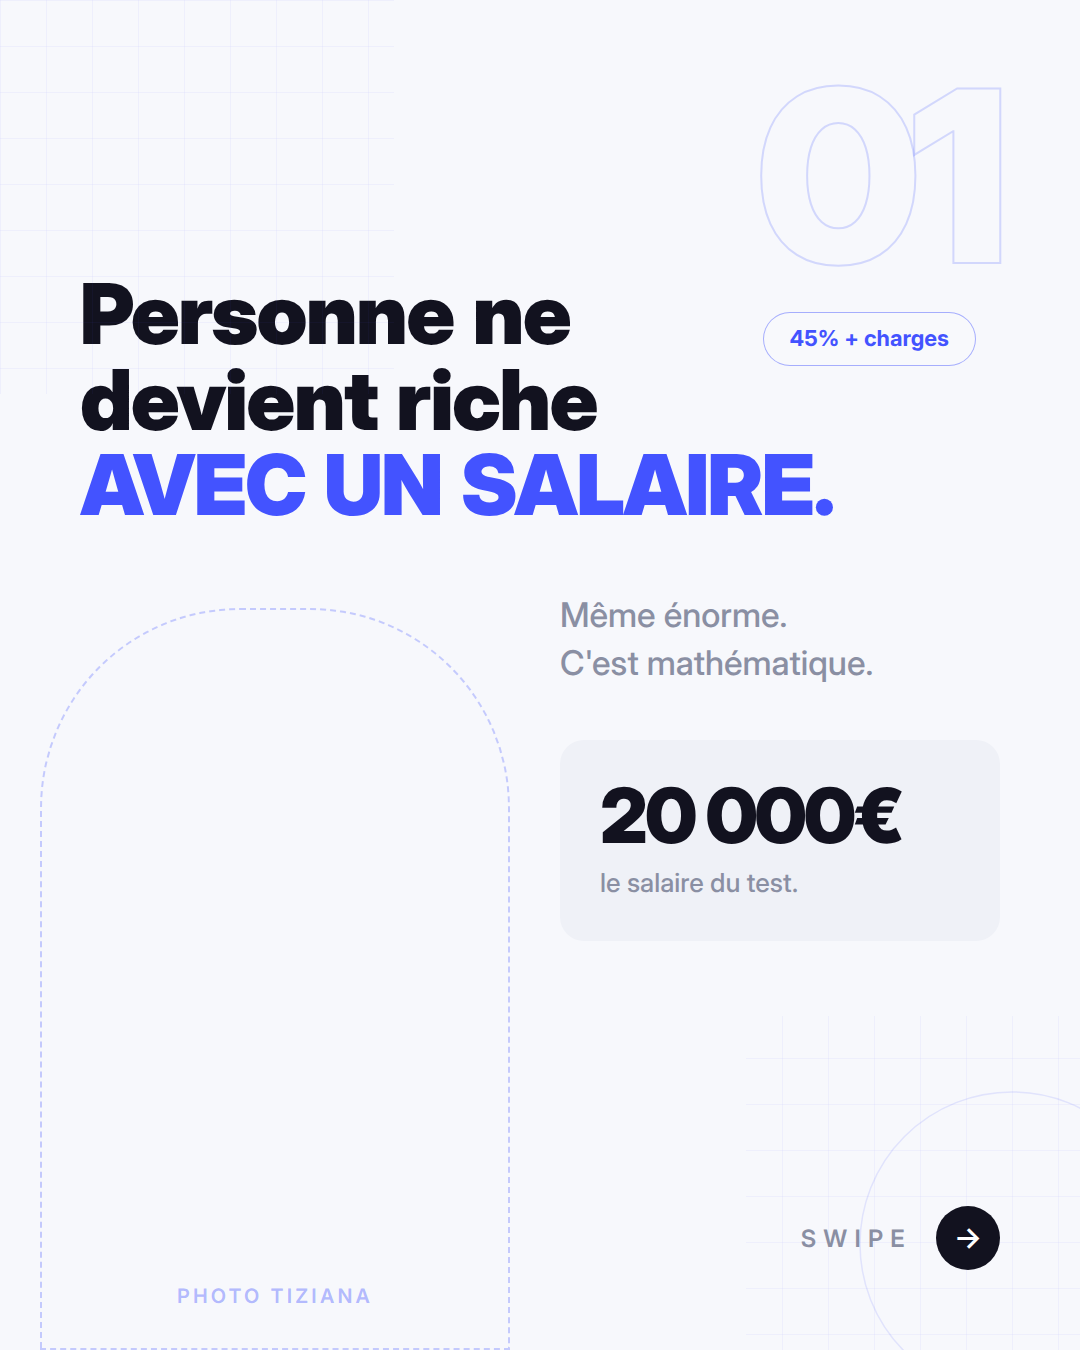
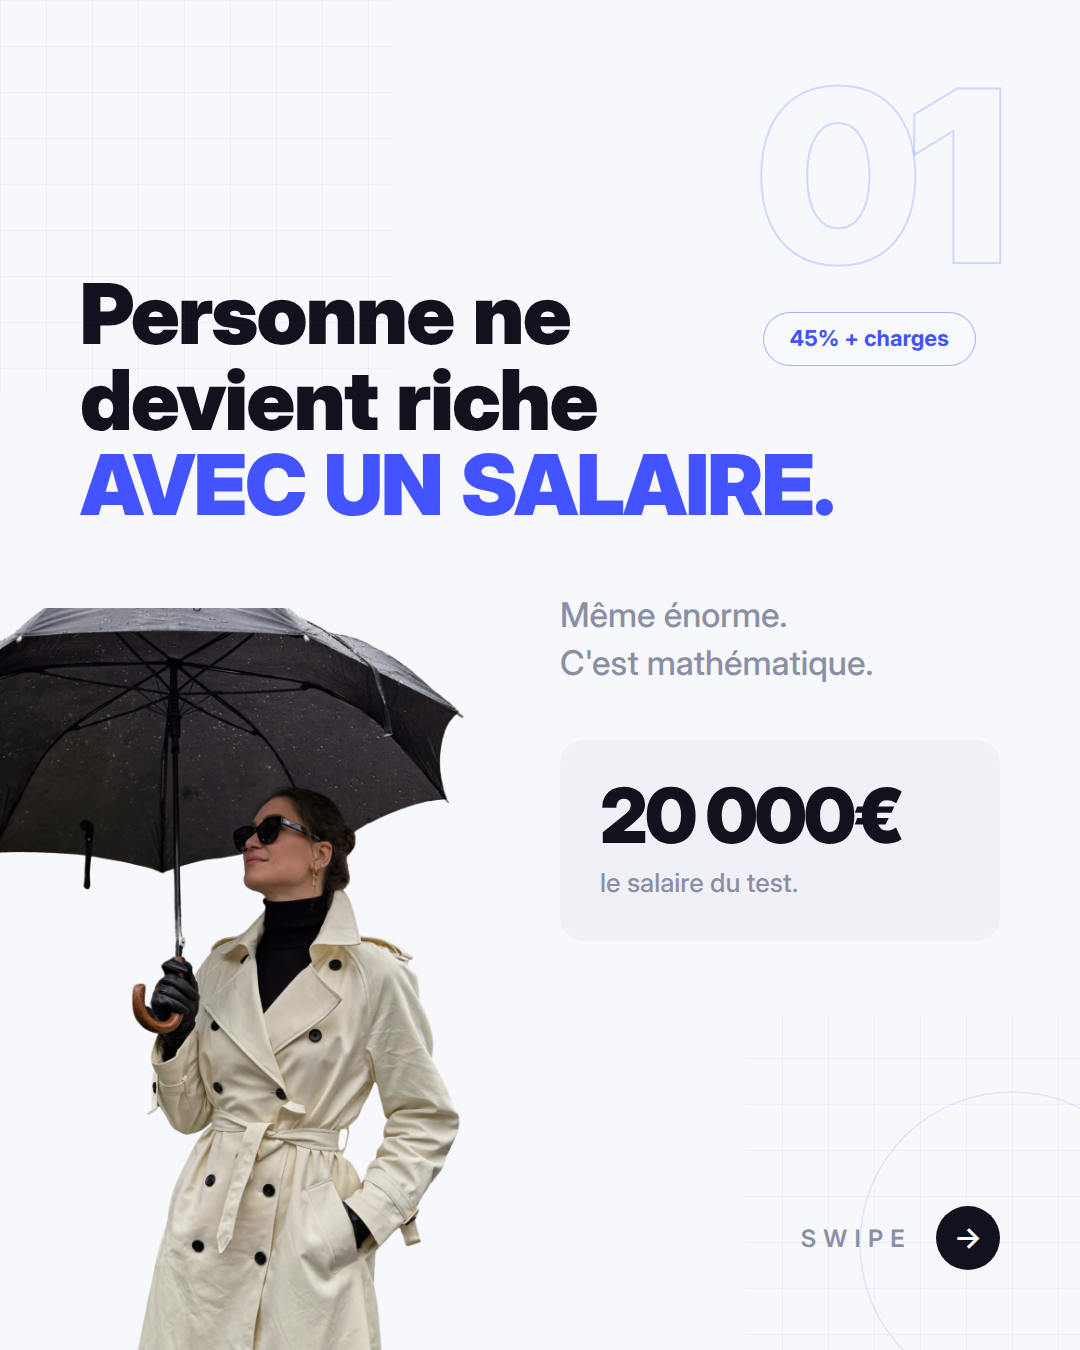
Les 9 slides rendues + photo detouree en slide 1
- assets/tiziana-cutout.png : photo detouree (alpha), recadree sur son
  contenu et redimensionnee a 1000px de large pour alleger le depot ;
  le placeholder en pointilles n'est utilise que si l'asset est absent
- slide 3 : card bleue reequilibree (chiffre et sous-texte cote a cote)
  au lieu d'un empilement qui laissait une large zone vide a droite
- les 9 PNG 1080x1350 generes dans output/

Claude-Session: https://claude.ai/code/session_01JgjaVc8GDMA4sZRNpbXpxq

Changed region(s): [[0.0, 0.4356, 0.4889, 1.0]]

diff --git a/carrousel/slides/slide-03.html b/carrousel/slides/slide-03.html
@@ -23,10 +23,10 @@
       <div class="head"><span class="badge">LES GRANDES FORTUNES</span></div>
       <h1 class="title">Leur salaire<br>officiel.</h1>
       <div class="zone">
-        <div class="stat stat--blue" style="padding:64px">
-          <div class="stat-fig" style="font-size:180px">1€</div>
-          <div class="stat-sub" style="font-size:34px;margin-top:24px">
-            le salaire symbolique de certains<br>patrons de la tech.
+        <div class="stat stat--blue" style="padding:64px;display:flex;align-items:center;gap:52px">
+          <div class="stat-fig" style="font-size:180px;flex:none">1€</div>
+          <div class="stat-sub" style="font-size:32px;margin-top:0">
+            le salaire symbolique de certains patrons de la tech.
           </div>
         </div>
       </div>

diff --git a/carrousel/src/slides.js b/carrousel/src/slides.js
@@ -84,10 +84,10 @@ module.exports = { DECOR, slides: [
       ${badge('LES GRANDES FORTUNES')}
       <h1 class="title">Leur salaire<br>officiel.</h1>
       <div class="zone">
-        <div class="stat stat--blue" style="padding:64px">
-          <div class="stat-fig" style="font-size:180px">1€</div>
-          <div class="stat-sub" style="font-size:34px;margin-top:24px">
-            le salaire symbolique de certains<br>patrons de la tech.
+        <div class="stat stat--blue" style="padding:64px;display:flex;align-items:center;gap:52px">
+          <div class="stat-fig" style="font-size:180px;flex:none">1€</div>
+          <div class="stat-sub" style="font-size:32px;margin-top:0">
+            le salaire symbolique de certains patrons de la tech.
           </div>
         </div>
       </div>

diff --git a/carrousel/slides/slide-01.html b/carrousel/slides/slide-01.html
@@ -32,7 +32,7 @@
         <div class="stat-fig" style="font-size:76px">20 000€</div>
         <div class="stat-sub" style="font-size:26px;margin-top:14px">le salaire du test.</div>
       </div>
-      <div class="photo-ph bleed">PHOTO TIZIANA</div>
+      <img class="photo bleed" src="../assets/tiziana-cutout.png" alt="">
       <div class="swipe" style="position:absolute;bottom:80px;right:80px">
         <span class="swipe-txt">SWIPE</span><span class="swipe-dot">&rarr;</span>
       </div>

diff --git a/carrousel/README.md b/carrousel/README.md
@@ -39,8 +39,9 @@ Composants dans `style.css` : `.num` (numéro outline), `.badge` (pill catégori
 `.flow` (flux de cards + flèches), `.duo` (deux cards), `.ticks` (liste à puces carrées).
 
 ### Photo slide 1
-Déposer la photo détourée dans `assets/tiziana-cutout.png`. Tant que le fichier est absent,
-un placeholder en pointillés matérialise l'emplacement (bas gauche, 742px de haut).
+`assets/tiziana-cutout.png` — photo détourée (alpha), placée en bas gauche, 742px de haut
+(55% de la slide), le parapluie débordant sur le bord gauche. Si le fichier est retiré,
+un placeholder en pointillés matérialise l'emplacement.
 
 ## Contrôles automatiques
 `render.js` vérifie pour chaque slide : dimensions PNG exactes (1080×1350), aucun élément
